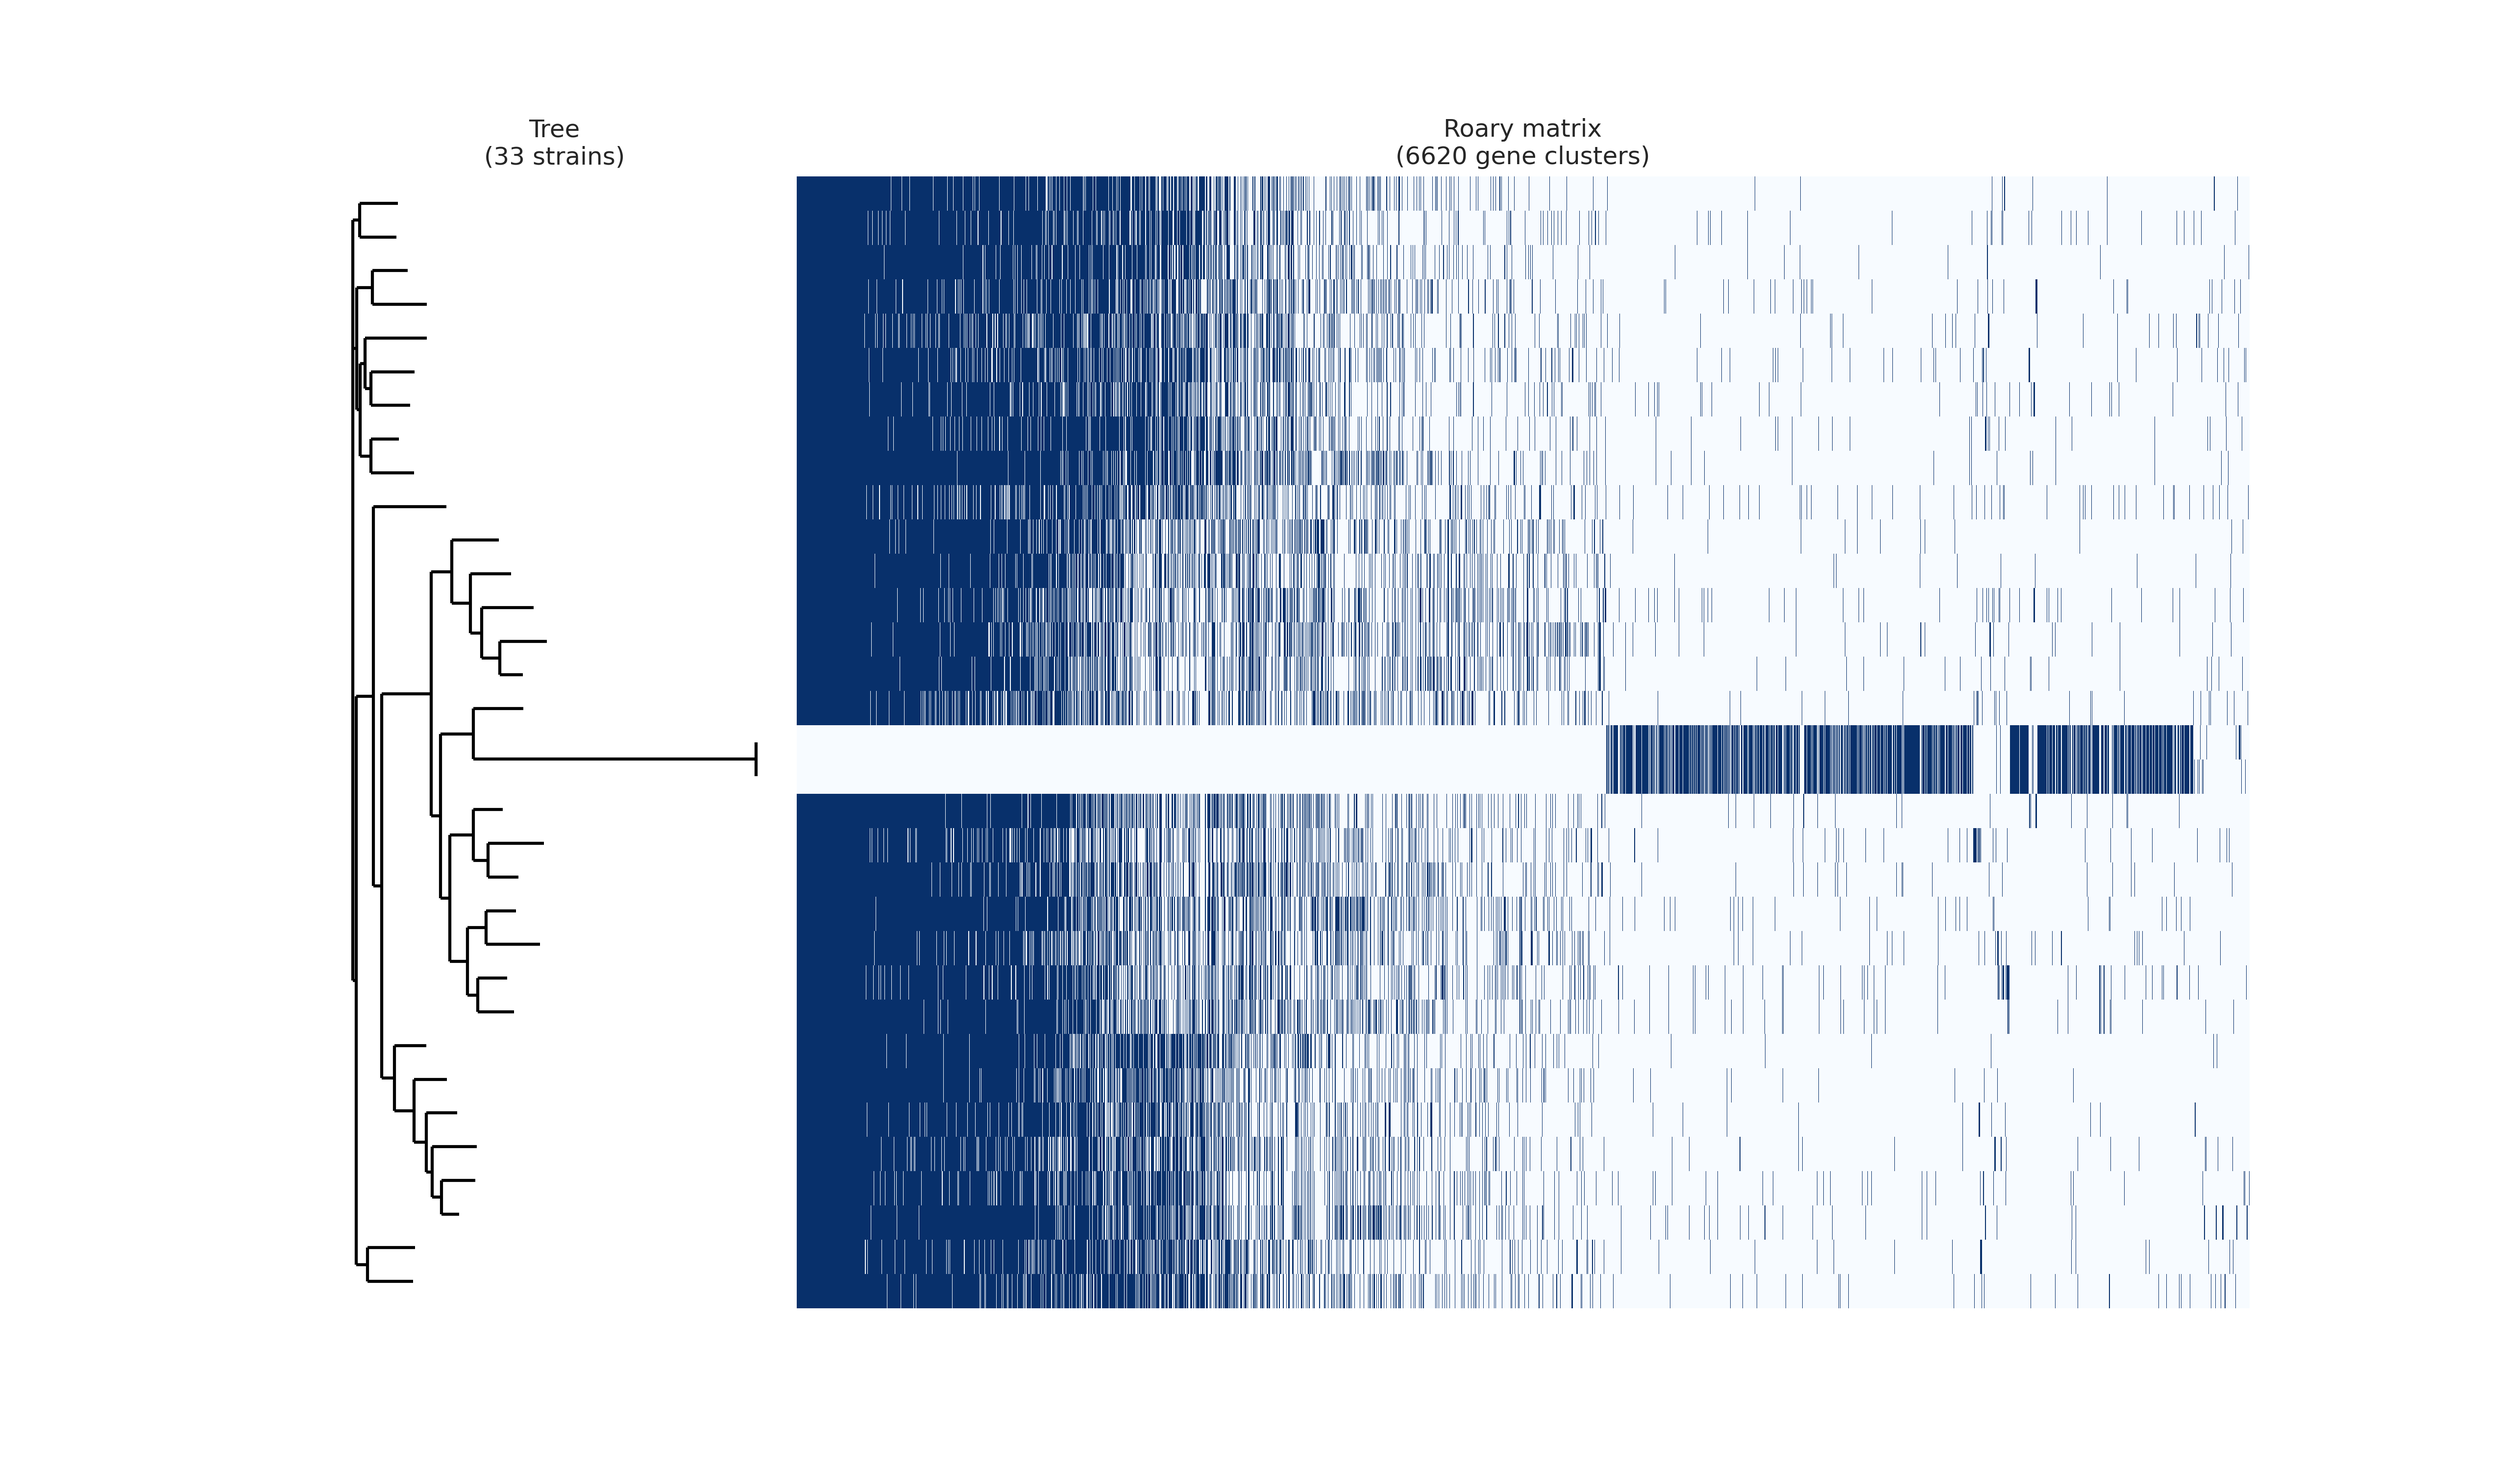
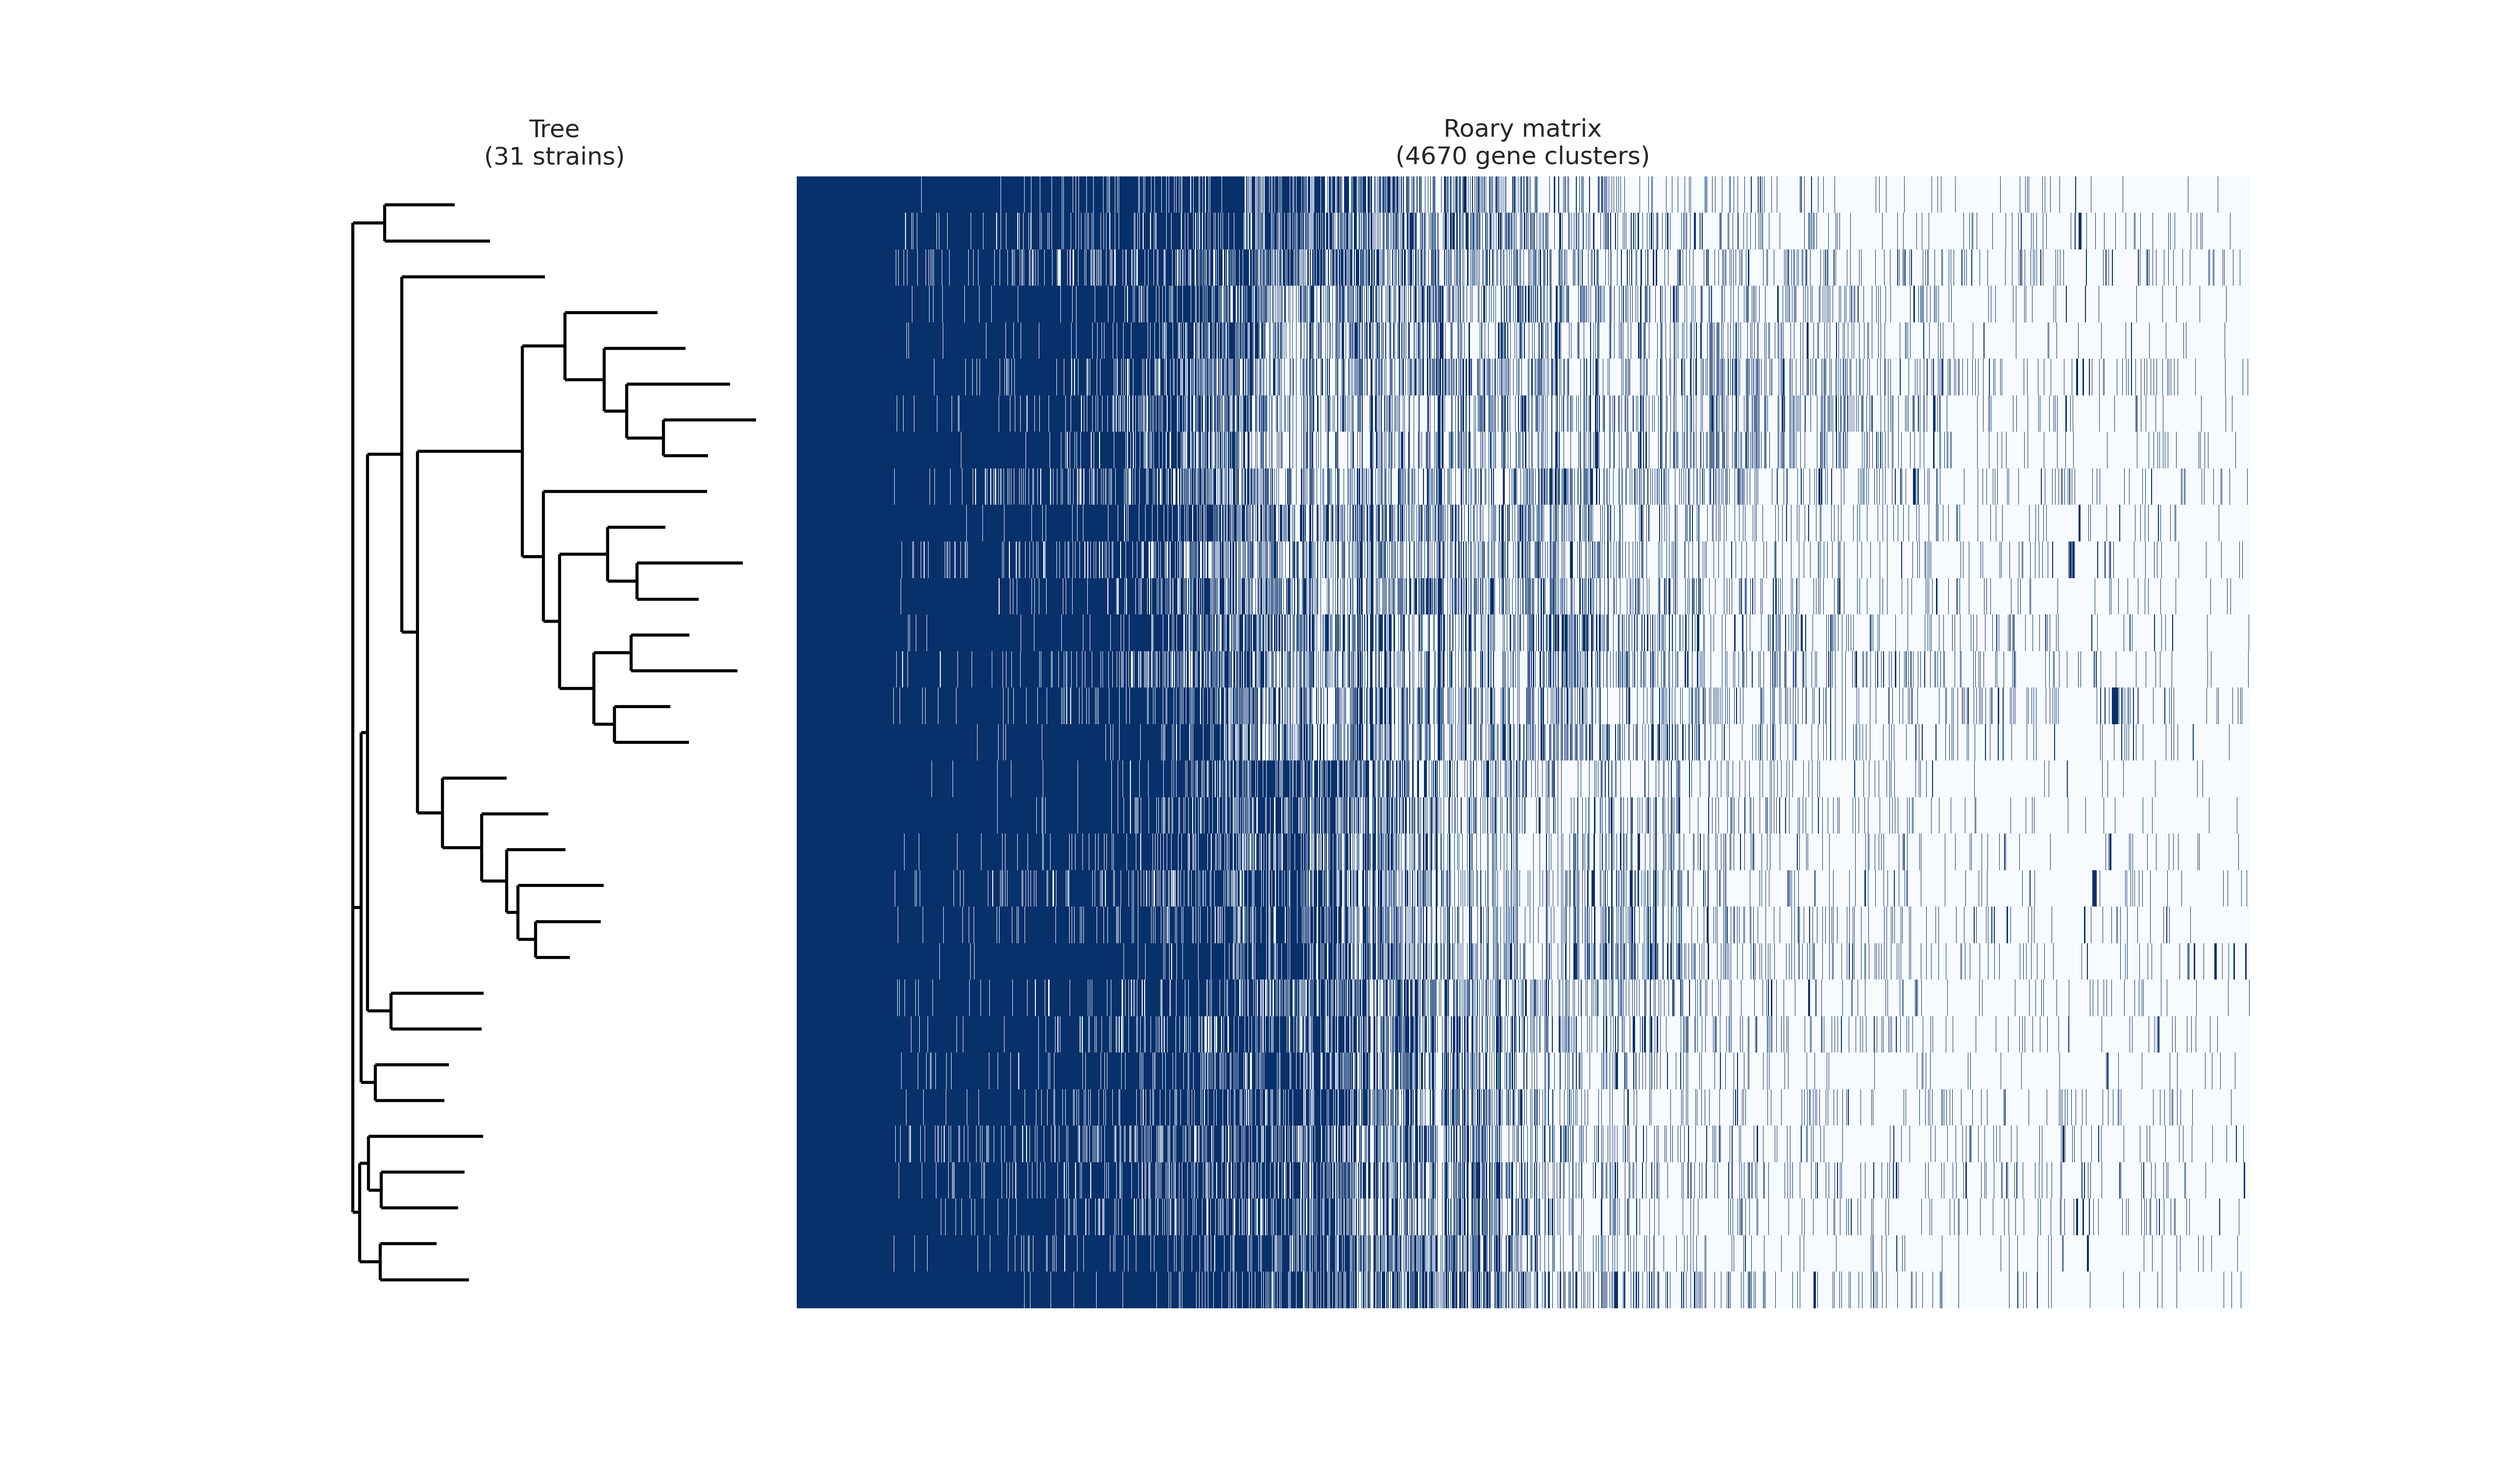
plots

diff --git a/report/sections/methods.tex b/report/sections/methods.tex
@@ -2,3 +2,17 @@
 
 % roary commands: roary GFF/*.gff -f roary_out –e -p 8 -i 95 -cd 90
 % we used PRANK as engine not MAFFT
+
+%%% What software you used for each purpose, what parameters
+
+A total of 31 MAGs (29 SGBs and 2 reference genome)
+
+
+
+
+
+
+
+
+
+

diff --git a/report/sections/introduction.tex b/report/sections/introduction.tex
@@ -1,2 +1,15 @@
 \section*{Introduction}
 %\graphicspath{{images/}}
+% Motivation: obtain information about a uSGB, starting from a set of 31 HQ bins (29 MAGs + 2 ref genomes).
+% Which uSGB are you working with, what is your focus
+
+
+
+
+
+
+
+
+
+
+
